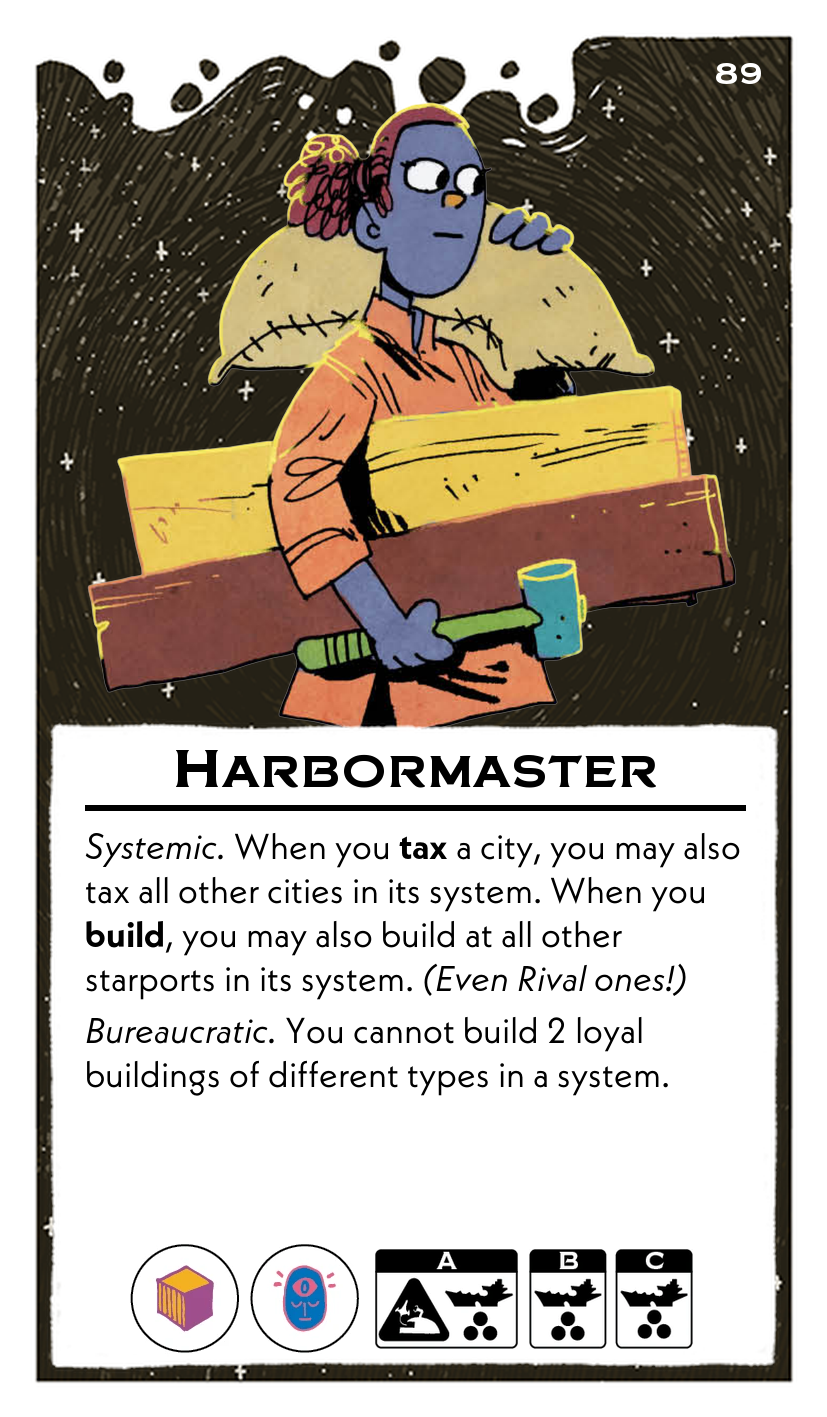
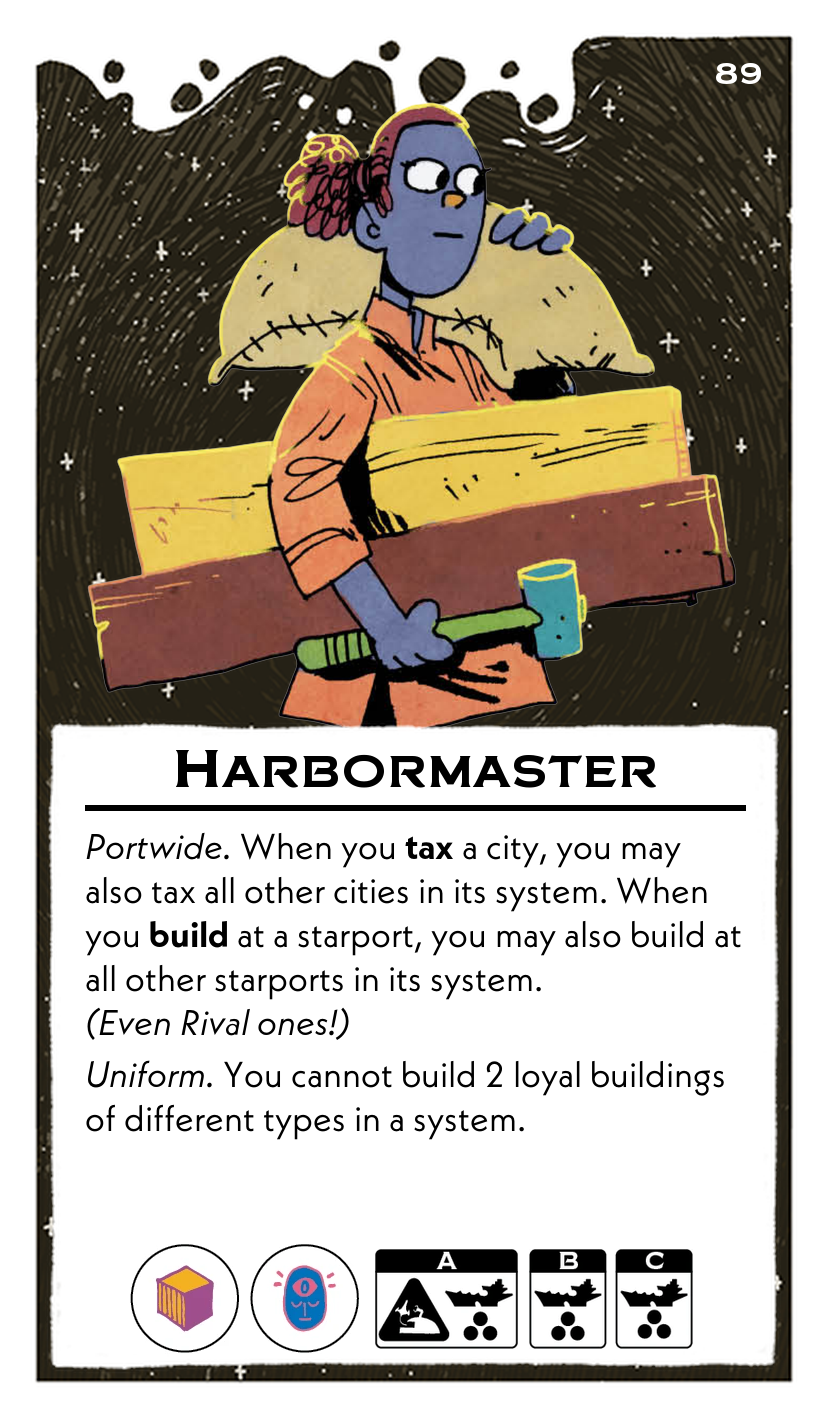
harbormaster

Changed region(s): [[0.0907, 0.59, 0.9069, 0.8073]]

diff --git a/scripts/leadersFormatted.py b/scripts/leadersFormatted.py
@@ -1357,7 +1357,7 @@ leaders = [
     {
         "name": "Harbormaster",
         "abilities": (
-            "*Portwide.* When you **tax** a city, you may also tax all other cities in its system. When you **build**, you may also build at all other starports in its system. *(Even Rival ones!)*\n"
+            "*Portwide.* When you **tax** a city, you may also tax all other cities in its system. When you **build** at a starport, you may also build at all other starports in its system. *(Even Rival ones!)*\n"
             "*Uniform.* You cannot build 2 loyal buildings of different types in a system."
         ),
         "resources": ["Material", "Psionic"],
